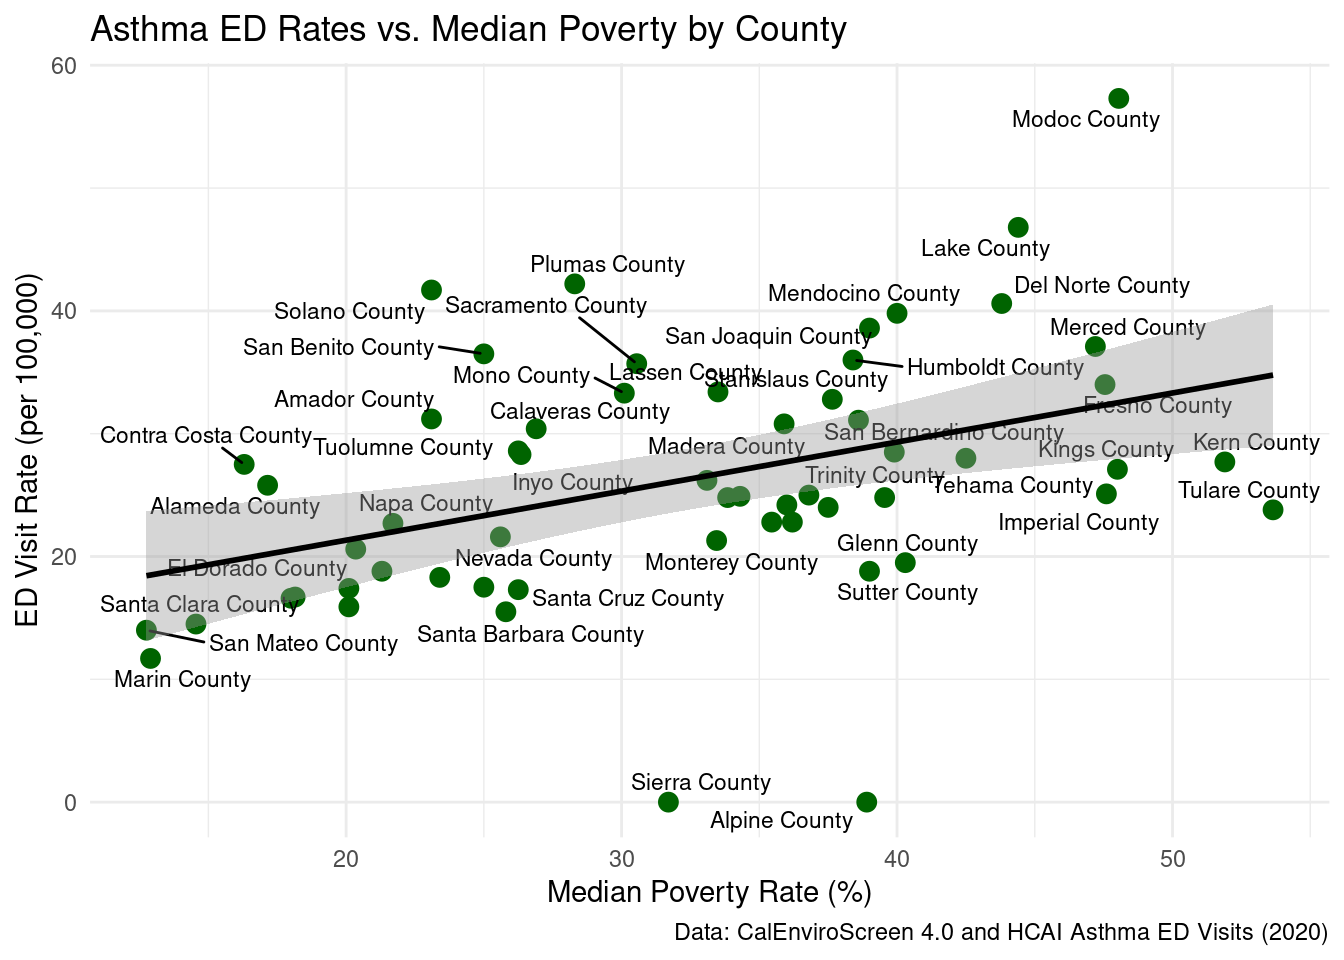
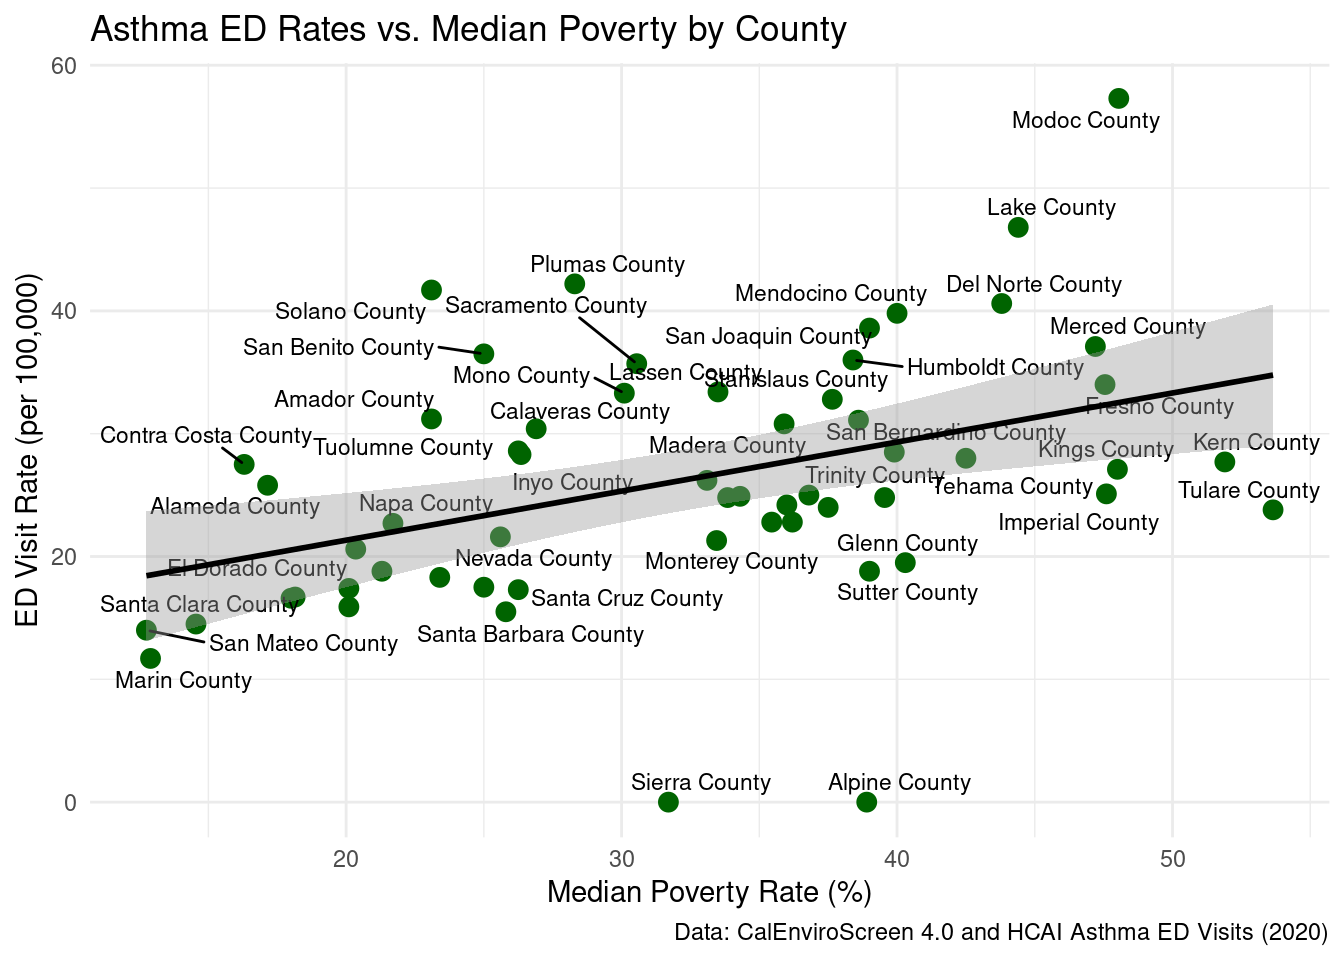
commit

diff --git a/Milestone_6 Working Copy.html b/Milestone_6 Working Copy.html
@@ -108,23 +108,23 @@ ul.task-list li input[type="checkbox"] {
 <h4 class="anchored" data-anchor-id="stratified-table-asthma-by-ces-category"><strong>Stratified table: asthma by CES category</strong></h4>
 <div class="cell">
 <div class="cell-output-display">
-<div id="rzxnbnrjof" style="padding-left:0px;padding-right:0px;padding-top:10px;padding-bottom:10px;overflow-x:auto;overflow-y:auto;width:auto;height:auto;">
-<style>#rzxnbnrjof table {
+<div id="awwgbtwpzz" style="padding-left:0px;padding-right:0px;padding-top:10px;padding-bottom:10px;overflow-x:auto;overflow-y:auto;width:auto;height:auto;">
+<style>#awwgbtwpzz table {
   font-family: system-ui, 'Segoe UI', Roboto, Helvetica, Arial, sans-serif, 'Apple Color Emoji', 'Segoe UI Emoji', 'Segoe UI Symbol', 'Noto Color Emoji';
   -webkit-font-smoothing: antialiased;
   -moz-osx-font-smoothing: grayscale;
 }
 
-#rzxnbnrjof thead, #rzxnbnrjof tbody, #rzxnbnrjof tfoot, #rzxnbnrjof tr, #rzxnbnrjof td, #rzxnbnrjof th {
+#awwgbtwpzz thead, #awwgbtwpzz tbody, #awwgbtwpzz tfoot, #awwgbtwpzz tr, #awwgbtwpzz td, #awwgbtwpzz th {
   border-style: none;
 }
 
-#rzxnbnrjof p {
+#awwgbtwpzz p {
   margin: 0;
   padding: 0;
 }
 
-#rzxnbnrjof .gt_table {
+#awwgbtwpzz .gt_table {
   display: table;
   border-collapse: collapse;
   line-height: normal;
@@ -150,12 +150,12 @@ ul.task-list li input[type="checkbox"] {
   border-left-color: #D3D3D3;
 }
 
-#rzxnbnrjof .gt_caption {
+#awwgbtwpzz .gt_caption {
   padding-top: 4px;
   padding-bottom: 4px;
 }
 
-#rzxnbnrjof .gt_title {
+#awwgbtwpzz .gt_title {
   color: #333333;
   font-size: 125%;
   font-weight: initial;
@@ -167,7 +167,7 @@ ul.task-list li input[type="checkbox"] {
   border-bottom-width: 0;
 }
 
-#rzxnbnrjof .gt_subtitle {
+#awwgbtwpzz .gt_subtitle {
   color: #333333;
   font-size: 85%;
   font-weight: initial;
@@ -179,7 +179,7 @@ ul.task-list li input[type="checkbox"] {
   border-top-width: 0;
 }
 
-#rzxnbnrjof .gt_heading {
+#awwgbtwpzz .gt_heading {
   background-color: #FFFFFF;
   text-align: center;
   border-bottom-color: #FFFFFF;
@@ -191,13 +191,13 @@ ul.task-list li input[type="checkbox"] {
   border-right-color: #D3D3D3;
 }
 
-#rzxnbnrjof .gt_bottom_border {
+#awwgbtwpzz .gt_bottom_border {
   border-bottom-style: solid;
   border-bottom-width: 2px;
   border-bottom-color: #D3D3D3;
 }
 
-#rzxnbnrjof .gt_col_headings {
+#awwgbtwpzz .gt_col_headings {
   border-top-style: solid;
   border-top-width: 2px;
   border-top-color: #D3D3D3;
@@ -212,7 +212,7 @@ ul.task-list li input[type="checkbox"] {
   border-right-color: #D3D3D3;
 }
 
-#rzxnbnrjof .gt_col_heading {
+#awwgbtwpzz .gt_col_heading {
   color: #333333;
   background-color: #FFFFFF;
   font-size: 100%;
@@ -232,7 +232,7 @@ ul.task-list li input[type="checkbox"] {
   overflow-x: hidden;
 }
 
-#rzxnbnrjof .gt_column_spanner_outer {
+#awwgbtwpzz .gt_column_spanner_outer {
   color: #333333;
   background-color: #FFFFFF;
   font-size: 100%;
@@ -244,15 +244,15 @@ ul.task-list li input[type="checkbox"] {
   padding-right: 4px;
 }
 
-#rzxnbnrjof .gt_column_spanner_outer:first-child {
+#awwgbtwpzz .gt_column_spanner_outer:first-child {
   padding-left: 0;
 }
 
-#rzxnbnrjof .gt_column_spanner_outer:last-child {
+#awwgbtwpzz .gt_column_spanner_outer:last-child {
   padding-right: 0;
 }
 
-#rzxnbnrjof .gt_column_spanner {
+#awwgbtwpzz .gt_column_spanner {
   border-bottom-style: solid;
   border-bottom-width: 2px;
   border-bottom-color: #D3D3D3;
@@ -264,11 +264,11 @@ ul.task-list li input[type="checkbox"] {
   width: 100%;
 }
 
-#rzxnbnrjof .gt_spanner_row {
+#awwgbtwpzz .gt_spanner_row {
   border-bottom-style: hidden;
 }
 
-#rzxnbnrjof .gt_group_heading {
+#awwgbtwpzz .gt_group_heading {
   padding-top: 8px;
   padding-bottom: 8px;
   padding-left: 5px;
@@ -294,7 +294,7 @@ ul.task-list li input[type="checkbox"] {
   text-align: left;
 }
 
-#rzxnbnrjof .gt_empty_group_heading {
+#awwgbtwpzz .gt_empty_group_heading {
   padding: 0.5px;
   color: #333333;
   background-color: #FFFFFF;
@@ -309,15 +309,15 @@ ul.task-list li input[type="checkbox"] {
   vertical-align: middle;
 }
 
-#rzxnbnrjof .gt_from_md > :first-child {
+#awwgbtwpzz .gt_from_md > :first-child {
   margin-top: 0;
 }
 
-#rzxnbnrjof .gt_from_md > :last-child {
+#awwgbtwpzz .gt_from_md > :last-child {
   margin-bottom: 0;
 }
 
-#rzxnbnrjof .gt_row {
+#awwgbtwpzz .gt_row {
   padding-top: 8px;
   padding-bottom: 8px;
   padding-left: 5px;
@@ -336,7 +336,7 @@ ul.task-list li input[type="checkbox"] {
   overflow-x: hidden;
 }
 
-#rzxnbnrjof .gt_stub {
+#awwgbtwpzz .gt_stub {
   color: #333333;
   background-color: #FFFFFF;
   font-size: 100%;
@@ -349,7 +349,7 @@ ul.task-list li input[type="checkbox"] {
   padding-right: 5px;
 }
 
-#rzxnbnrjof .gt_stub_row_group {
+#awwgbtwpzz .gt_stub_row_group {
   color: #333333;
   background-color: #FFFFFF;
   font-size: 100%;
@@ -363,15 +363,15 @@ ul.task-list li input[type="checkbox"] {
   vertical-align: top;
 }
 
-#rzxnbnrjof .gt_row_group_first td {
+#awwgbtwpzz .gt_row_group_first td {
   border-top-width: 2px;
 }
 
-#rzxnbnrjof .gt_row_group_first th {
+#awwgbtwpzz .gt_row_group_first th {
   border-top-width: 2px;
 }
 
-#rzxnbnrjof .gt_summary_row {
+#awwgbtwpzz .gt_summary_row {
   color: #333333;
   background-color: #FFFFFF;
   text-transform: inherit;
@@ -381,16 +381,16 @@ ul.task-list li input[type="checkbox"] {
   padding-right: 5px;
 }
 
-#rzxnbnrjof .gt_first_summary_row {
+#awwgbtwpzz .gt_first_summary_row {
   border-top-style: solid;
   border-top-color: #D3D3D3;
 }
 
-#rzxnbnrjof .gt_first_summary_row.thick {
+#awwgbtwpzz .gt_first_summary_row.thick {
   border-top-width: 2px;
 }
 
-#rzxnbnrjof .gt_last_summary_row {
+#awwgbtwpzz .gt_last_summary_row {
   padding-top: 8px;
   padding-bottom: 8px;
   padding-left: 5px;
@@ -400,7 +400,7 @@ ul.task-list li input[type="checkbox"] {
   border-bottom-color: #D3D3D3;
 }
 
-#rzxnbnrjof .gt_grand_summary_row {
+#awwgbtwpzz .gt_grand_summary_row {
   color: #333333;
   background-color: #FFFFFF;
   text-transform: inherit;
@@ -410,7 +410,7 @@ ul.task-list li input[type="checkbox"] {
   padding-right: 5px;
 }
 
-#rzxnbnrjof .gt_first_grand_summary_row {
+#awwgbtwpzz .gt_first_grand_summary_row {
   padding-top: 8px;
   padding-bottom: 8px;
   padding-left: 5px;
@@ -420,7 +420,7 @@ ul.task-list li input[type="checkbox"] {
   border-top-color: #D3D3D3;
 }
 
-#rzxnbnrjof .gt_last_grand_summary_row_top {
+#awwgbtwpzz .gt_last_grand_summary_row_top {
   padding-top: 8px;
   padding-bottom: 8px;
   padding-left: 5px;
@@ -430,11 +430,11 @@ ul.task-list li input[type="checkbox"] {
   border-bottom-color: #D3D3D3;
 }
 
-#rzxnbnrjof .gt_striped {
+#awwgbtwpzz .gt_striped {
   background-color: rgba(128, 128, 128, 0.05);
 }
 
-#rzxnbnrjof .gt_table_body {
+#awwgbtwpzz .gt_table_body {
   border-top-style: solid;
   border-top-width: 2px;
   border-top-color: #D3D3D3;
@@ -443,7 +443,7 @@ ul.task-list li input[type="checkbox"] {
   border-bottom-color: #D3D3D3;
 }
 
-#rzxnbnrjof .gt_footnotes {
+#awwgbtwpzz .gt_footnotes {
   color: #333333;
   background-color: #FFFFFF;
   border-bottom-style: none;
@@ -457,7 +457,7 @@ ul.task-list li input[type="checkbox"] {
   border-right-color: #D3D3D3;
 }
 
-#rzxnbnrjof .gt_footnote {
+#awwgbtwpzz .gt_footnote {
   margin: 0px;
   font-size: 90%;
   padding-top: 4px;
@@ -466,7 +466,7 @@ ul.task-list li input[type="checkbox"] {
   padding-right: 5px;
 }
 
-#rzxnbnrjof .gt_sourcenotes {
+#awwgbtwpzz .gt_sourcenotes {
   color: #333333;
   background-color: #FFFFFF;
   border-bottom-style: none;
@@ -480,7 +480,7 @@ ul.task-list li input[type="checkbox"] {
   border-right-color: #D3D3D3;
 }
 
-#rzxnbnrjof .gt_sourcenote {
+#awwgbtwpzz .gt_sourcenote {
   font-size: 90%;
   padding-top: 4px;
   padding-bottom: 4px;
@@ -488,72 +488,72 @@ ul.task-list li input[type="checkbox"] {
   padding-right: 5px;
 }
 
-#rzxnbnrjof .gt_left {
+#awwgbtwpzz .gt_left {
   text-align: left;
 }
 
-#rzxnbnrjof .gt_center {
+#awwgbtwpzz .gt_center {
   text-align: center;
 }
 
-#rzxnbnrjof .gt_right {
+#awwgbtwpzz .gt_right {
   text-align: right;
   font-variant-numeric: tabular-nums;
 }
 
-#rzxnbnrjof .gt_font_normal {
+#awwgbtwpzz .gt_font_normal {
   font-weight: normal;
 }
 
-#rzxnbnrjof .gt_font_bold {
+#awwgbtwpzz .gt_font_bold {
   font-weight: bold;
 }
 
-#rzxnbnrjof .gt_font_italic {
+#awwgbtwpzz .gt_font_italic {
   font-style: italic;
 }
 
-#rzxnbnrjof .gt_super {
+#awwgbtwpzz .gt_super {
   font-size: 65%;
 }
 
-#rzxnbnrjof .gt_footnote_marks {
+#awwgbtwpzz .gt_footnote_marks {
   font-size: 75%;
   vertical-align: 0.4em;
   position: initial;
 }
 
-#rzxnbnrjof .gt_asterisk {
+#awwgbtwpzz .gt_asterisk {
   font-size: 100%;
   vertical-align: 0;
 }
 
-#rzxnbnrjof .gt_indent_1 {
+#awwgbtwpzz .gt_indent_1 {
   text-indent: 5px;
 }
 
-#rzxnbnrjof .gt_indent_2 {
+#awwgbtwpzz .gt_indent_2 {
   text-indent: 10px;
 }
 
-#rzxnbnrjof .gt_indent_3 {
+#awwgbtwpzz .gt_indent_3 {
   text-indent: 15px;
 }
 
-#rzxnbnrjof .gt_indent_4 {
+#awwgbtwpzz .gt_indent_4 {
   text-indent: 20px;
 }
 
-#rzxnbnrjof .gt_indent_5 {
+#awwgbtwpzz .gt_indent_5 {
   text-indent: 25px;
 }
 
-#rzxnbnrjof .katex-display {
+#awwgbtwpzz .katex-display {
   display: inline-flex !important;
   margin-bottom: 0.75em !important;
 }
 
-#rzxnbnrjof div.Reactable > div.rt-table > div.rt-thead > div.rt-tr.rt-tr-group-header > div.rt-th-group:after {
+#awwgbtwpzz div.Reactable > div.rt-table > div.rt-thead > div.rt-tr.rt-tr-group-header > div.rt-th-group:after {
   height: 0px !important;
 }
 </style>
@@ -645,7 +645,8 @@ ul.task-list li input[type="checkbox"] {
 <section id="discussion" class="level2">
 <h2 class="anchored" data-anchor-id="discussion">Discussion</h2>
 <p>The results consistently show that counties with higher cumulative environmental burdens, measured through CES 4.0, also experience higher asthma-related emergency department (ED) visit rates. The correlation analyses and descriptive summaries point in the same direction: as CES scores, pollution indicators, and poverty increase, asthma ED visit rates increase as well.</p>
-<p><br>
+<p>Scatterplots showed positive relationships between mean CES scores and asthma ED visit rates, as well as between PM2.5 levels and asthma ED visit rates. Boxplots of asthma ED visit rates by CES category suggested that counties classified as High CES had higher and more variable asthma ED rates than counties in the Low or Moderate CES categories. When we plotted asthma ED visit rates against county-level poverty, we saw that counties with higher poverty frequently clustered toward higher asthma ED visit rates. Together, the tables and plots highlight a pattern where multiple environmental and social indicators, including cumulative CES scores, PM2.5, and poverty ,move in the same direction as asthma ED burden at the county level.<br>
+<br>
 The findings underscore the connections between environmental justice, community conditions, and respiratory health. Counties with higher CES scores are often communities facing structural disadvantage, higher pollution exposure, and fewer protective resources. Higher asthma ED visits in these counties highlight how environmental inequities translate into real health consequences. This means that, for policymakers and public health agencies, interventions aimed at improving asthma outcomes cannot focus solely on clinical care; they also need to address environmental exposures, access to preventive resources, and neighborhood infrastructure.</p>
 <p>Some limitations to note are that all our results are based on county-level data, which can mask neighborhood-level variation and may overlook communities within a county that experience even higher burdens. Because of this, we can’t make any conclusions about individuals or specific census tracts. There’s also some timing mismatch across the datasets, since the CES indicators and asthma ED data don’t come from the exact same year. And since this is a cross-sectional, descriptive analysis, we can’t say that these environmental burdens <em>cause</em> higher asthma ED rates; we can only describe the patterns we see across counties.</p>
 </section>
